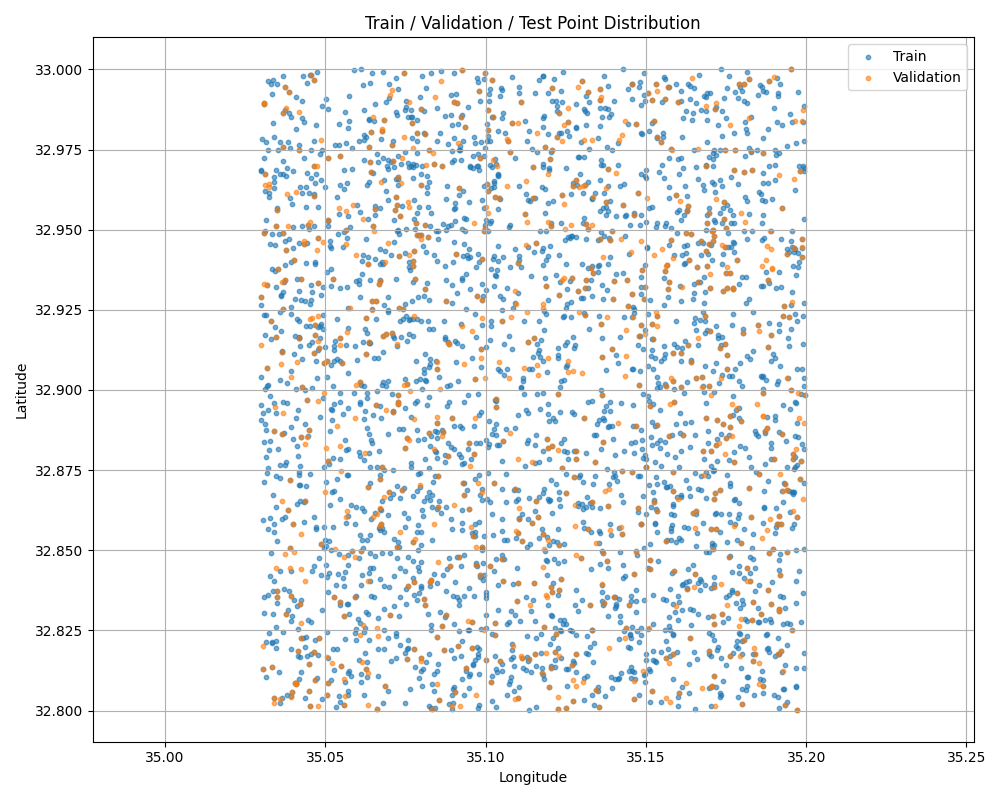
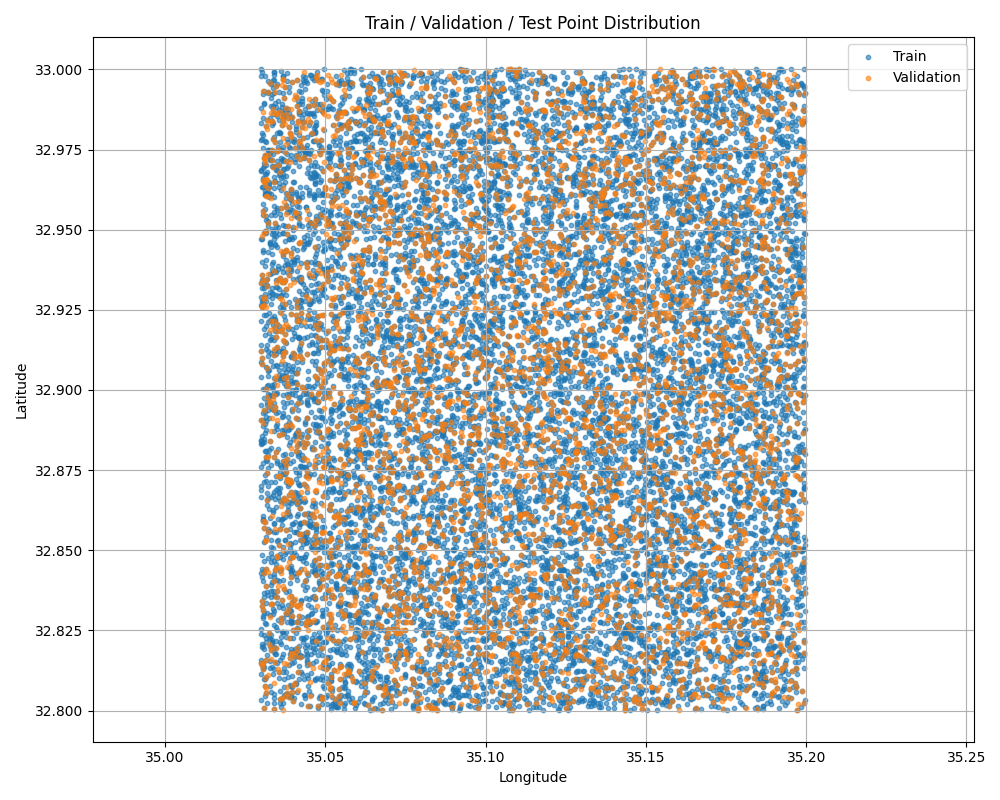
Last Updates

diff --git a/kcn-torch-master/kcn.py b/kcn-torch-master/kcn.py
@@ -167,18 +167,18 @@ class KCN(torch.nn.Module):
             attributed_graph = torch_geometric.data.Data(x=graph_features, edge_index=edges, edge_attr=edge_weights, y=None)
             print(f"attributed_graph shape:{edge_weights.shape}",file=f)
         return attributed_graph 
+
 # %%
     def _normalize_adj(self, adj):
         """Symmetrically normalize adjacency matrix."""
-    
-        row_sum = np.array(adj.sum(1))
-        d_inv_sqrt = np.power(row_sum, -0.5).flatten()
-        d_inv_sqrt[np.isinf(d_inv_sqrt)] = 0.
-    
+
+        row_sum = torch.tensor(adj.sum(1))
+        d_inv_sqrt = torch.pow(row_sum, -0.5).flatten()
+        d_inv_sqrt[torch.isinf(d_inv_sqrt)] = 0.
+
         adj_normalized = d_inv_sqrt[:, None] * adj * d_inv_sqrt[None, :]
-    
+
         return adj_normalized
-    
 # %%
     def form_input_graph(self, coord, feature, neighbors):
         
@@ -210,8 +210,9 @@ class KCN(torch.nn.Module):
 
             adj = torch.from_numpy(kernel)
             # one choice is to normalize the adjacency matrix 
-            #curr_adj = normalize_adj(curr_adj + np.eye(curr_adj.shape[0]))
-        
+            #adj = adj + torch.eye(adj.shape[0])
+            #adj_n = self._normalize_adj(adj)
+            adj.fill_diagonal_(0.0)
             # create a graph from it
             nz = adj.nonzero(as_tuple=True)
             edges = torch.stack(nz, dim=0)
@@ -338,3 +339,13 @@ def save_checkpoint(model, args, y_mean, y_std, train_loss=None, val_loss=None):
     torch.save(checkpoint, save_path)
     print(f"Checkpoint saved to: {save_path}")
 
+def _normalize_adj(self, adj):
+    """Symmetrically normalize adjacency matrix."""
+
+    row_sum = np.array(adj.sum(1))
+    d_inv_sqrt = np.power(row_sum, -0.5).flatten()
+    d_inv_sqrt[np.isinf(d_inv_sqrt)] = 0.
+
+    adj_normalized = d_inv_sqrt[:, None] * adj * d_inv_sqrt[None, :]
+
+    return adj_normalized

diff --git a/kcn-torch-master/argument.py b/kcn-torch-master/argument.py
@@ -22,7 +22,7 @@ def parse_opt():
     parser.add_argument('--use_default_test_set', type=bool, default=False, help='Use the default test set from the data')
     
     parser.add_argument('--model', type=str, default='kcn', help='One of three model types, kcn, kcn_gat, kcn_sage, which use GCN, GAT, and GraphSAGE respectively')
-    parser.add_argument('--n_neighbors', type=int, default=5, help='Number of neighbors')
+    parser.add_argument('--n_neighbors', type=int, default=50, help='Number of neighbors')
     parser.add_argument('--top_k', type=int, default=5, help='Number of neighbors')
     parser.add_argument('--length_scale', default="auto", help='Length scale for RBF kernel. If set to "auto", then it will be set to the median of neighbor distances')
     parser.add_argument('--hidden_sizes', type=list, default=[8, 8, 8], help='Number of units in hidden layers, also decide the number of layers')

diff --git a/kcn-torch-master/sets_visualize.py b/kcn-torch-master/sets_visualize.py
@@ -10,9 +10,9 @@ import torch
 
 # Load sets (adjust paths if needed)
 torch.serialization.add_safe_globals([SpatialDataset])
-trainset = torch.load("cache/trainset_n32_e035_1arc_v3_cropped_k50_keep_n0.01.pt", map_location="cpu")
-validset = torch.load("cache/validset_n32_e035_1arc_v3_cropped_k50_keep_n0.01.pt", map_location="cpu")
-testset = torch.load("cache/testset_n32_e035_1arc_v3_cropped_k50_keep_n0.01.pt", map_location="cpu")
+trainset = torch.load("cache/trainset_n32_e035_1arc_v3_cropped_k50_keep_n0.05.pt", map_location="cpu")
+validset = torch.load("cache/validset_n32_e035_1arc_v3_cropped_k50_keep_n0.05.pt", map_location="cpu")
+testset = torch.load("cache/testset_n32_e035_1arc_v3_cropped_k50_keep_n0.05.pt", map_location="cpu")
 
 # Extract coordinates
 train_coords = trainset.coords.numpy()
